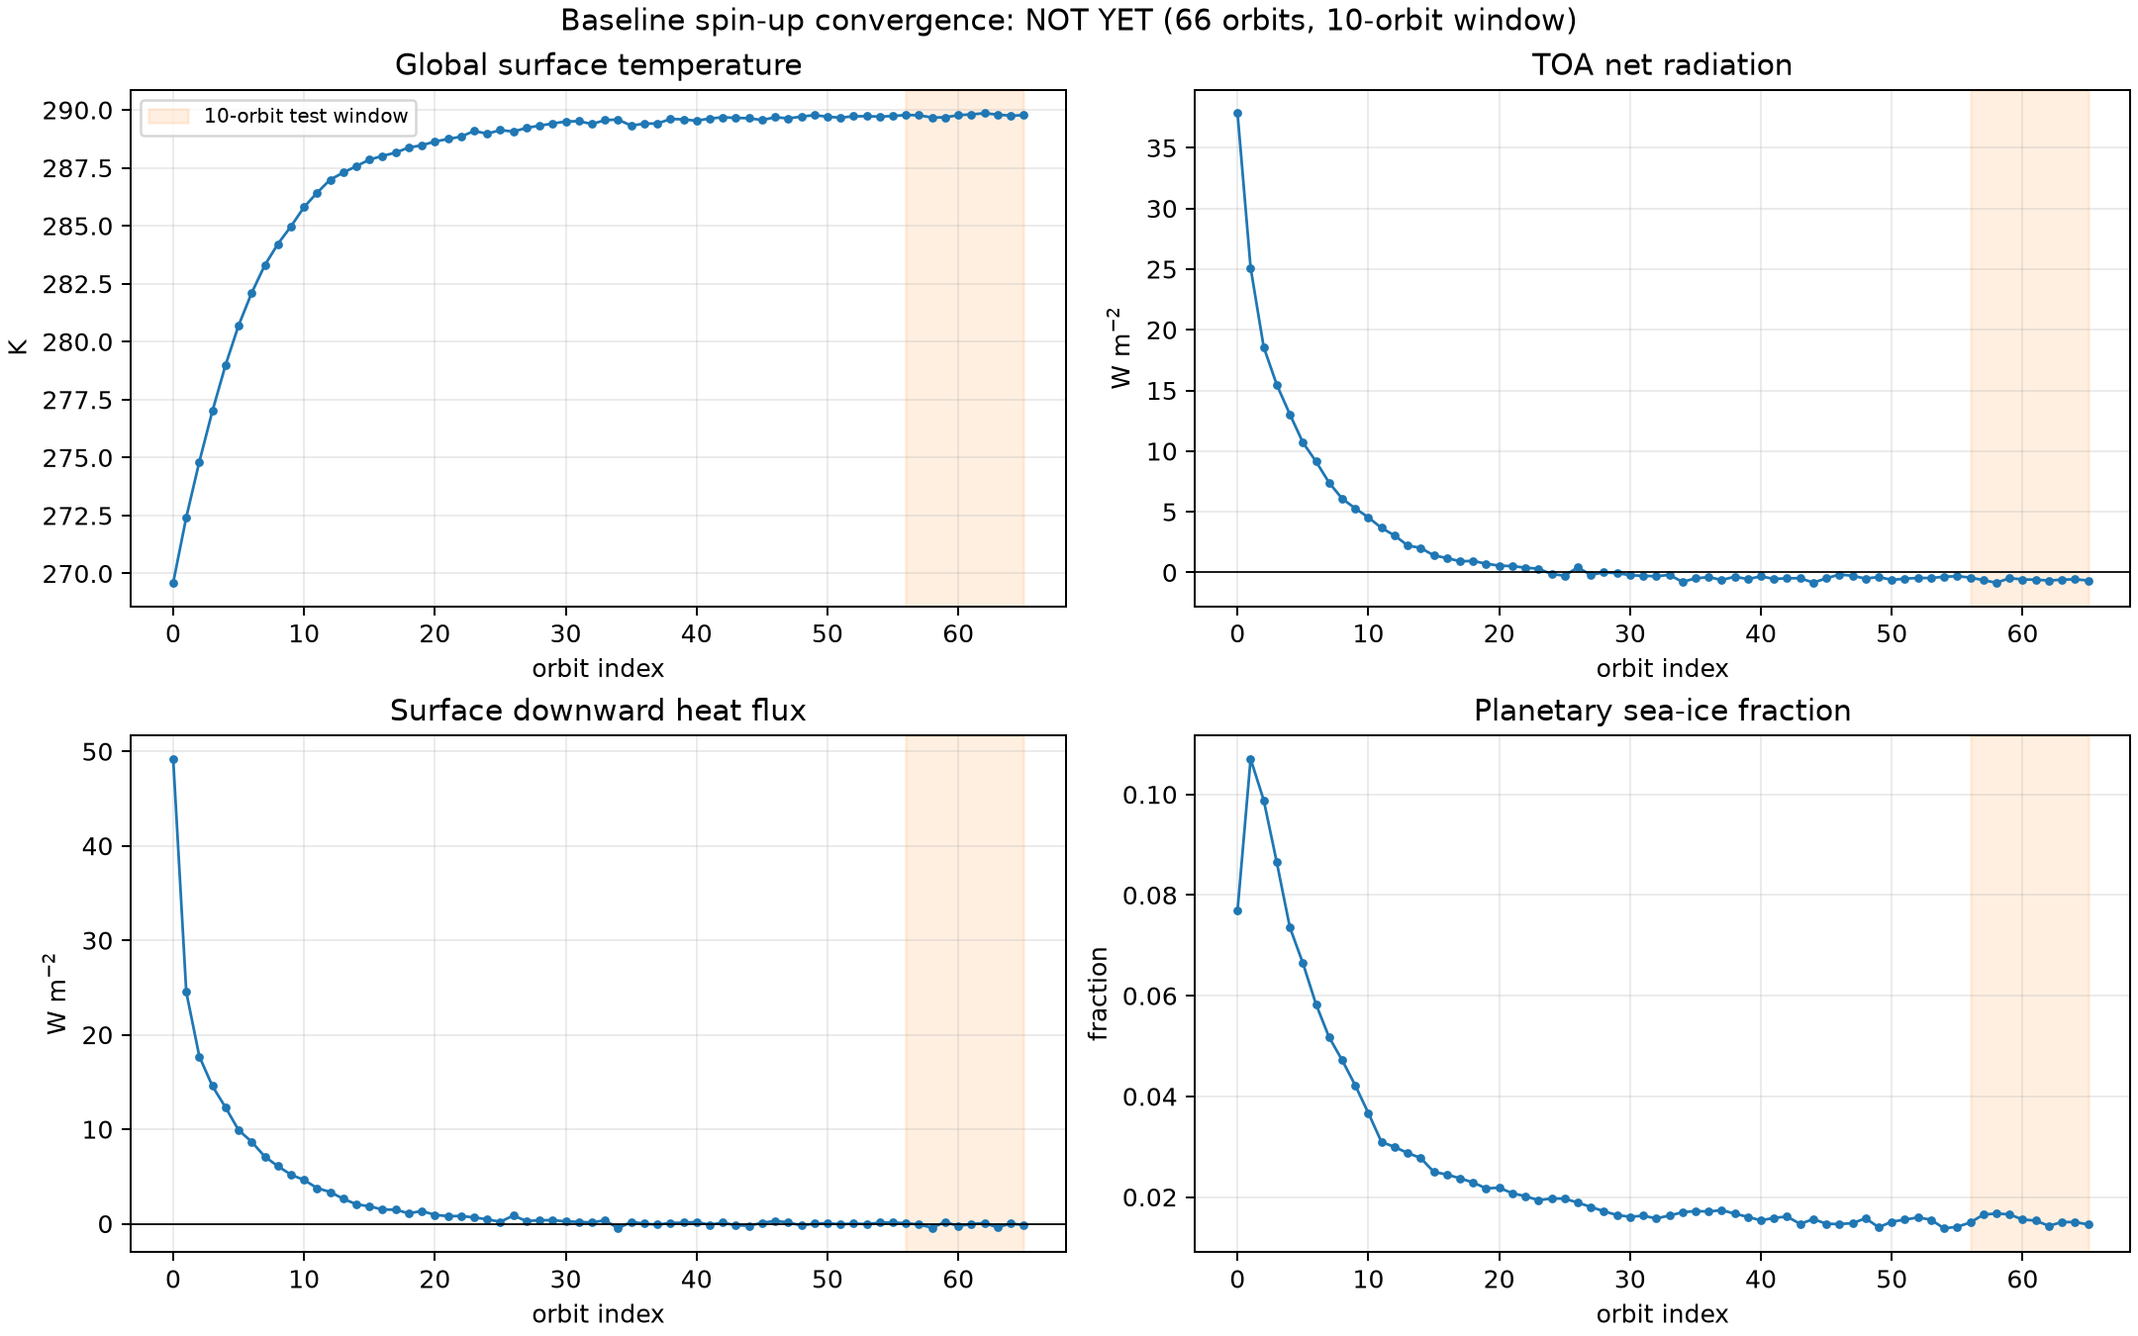
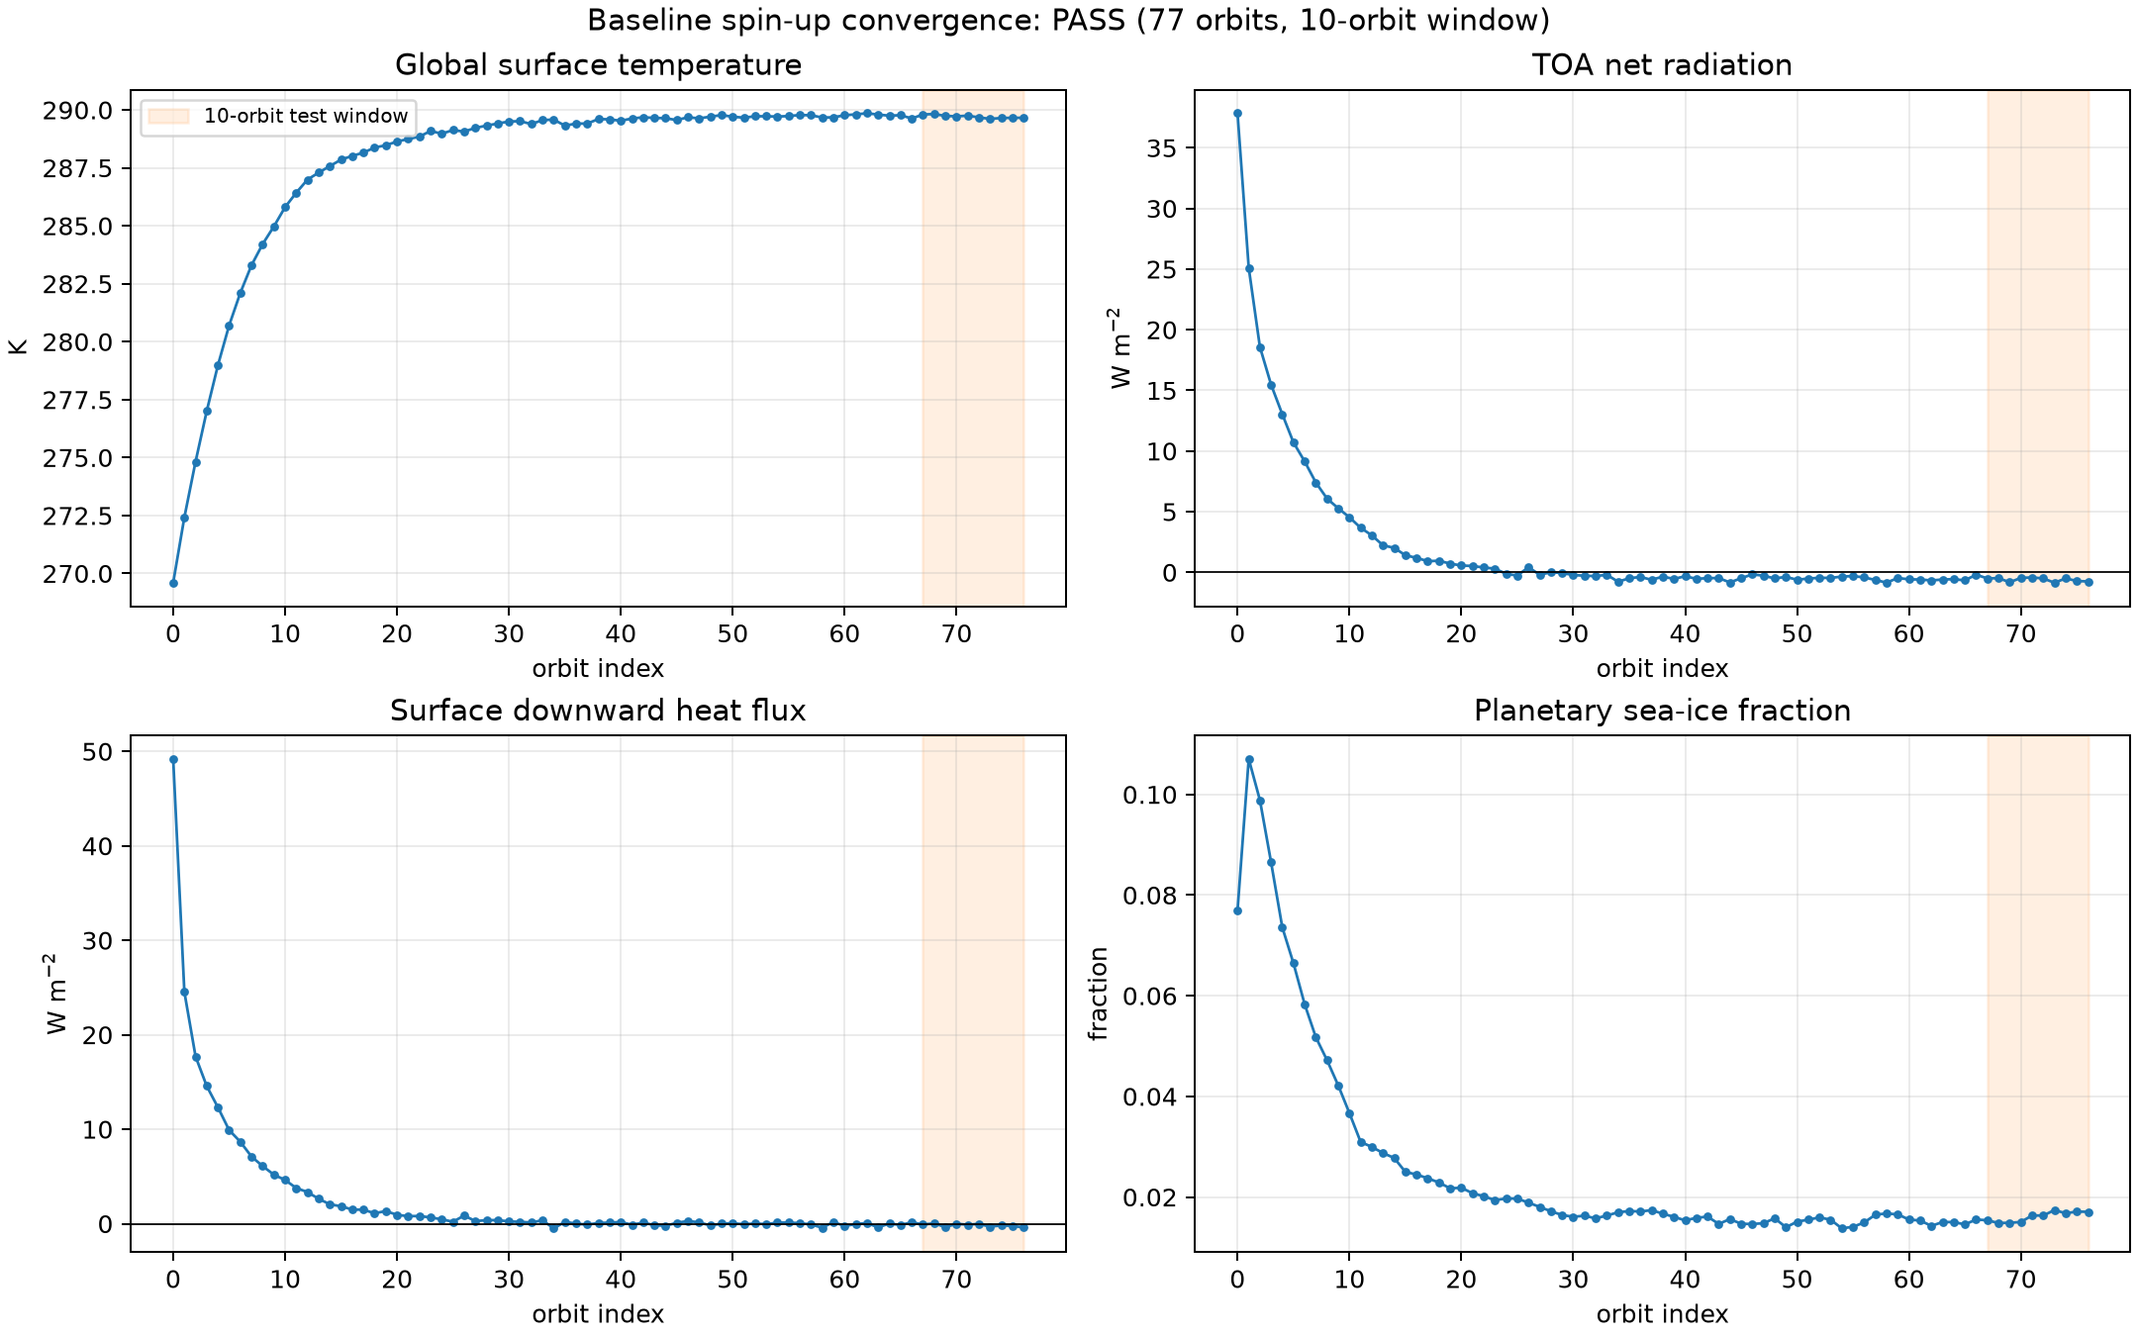
Apply the storage criterion: the baseline is equilibrated, and one run still is not
Re-assessed all four runs on the threshold committed in 7065292 without it having
been run against anything. The baseline stores -0.0547 W/m2 against a tolerance
of 0.12 and passes; run_bfa3f5269660 and run_524fbed77a9a pass; run_b014469b8091
fails, on extrapolated_offset_lt_0.15_k rather than on energy, so the criterion
is not passing everything put in front of it.

The check on the change is the ordering. The old criterion passed 524fbed at TOA
-0.483 while its heat content ROSE at +0.084 W/m2, and failed the baseline at
-0.600 while it stored -0.055: it was passing the run further from equilibrium.
On storage they rank the right way round, and 524fbed is now the one closest to
its threshold.

Manifests, INDEX.json and world_state.json regenerated with it. The section of
baseline-equilibration.md that said the label would not move is rewritten rather
than annotated, since the decision it was deferring has now been taken.

diff --git a/TASKS.md b/TASKS.md
@@ -48,7 +48,6 @@ Status: `open` | `doing` | `blocked` | `done` | `wontfix` (with a reason).
 | DUST-7 | There is NO wet deposition in ExoPlaSim's aerosol. `aerocore` takes no precipitation argument of any kind -- gravitational settling is the only removal, plus a bottom-level sink that is deliberate but not physical -- 99% per timestep, an implied deposition velocity of 52.7 cm/s against a real 0.1-2, and it does not scale with dt. See `aeolian/notes/in-model-dust.md` | `notes/dust.md` | open, part of DUST-3 and designed in `aeolian/notes/in-model-dust.md`. Mechanically the easiest of the physics additions: `dprl` and `dprc` exist, they are simply not handed over. `aeolian/README.md` says of our own chain that without the wet term the fine mode's lifetime is out by an order of magnitude, so porting emission in-model without adding scavenging would lose a first-order sink. Needs a loss term proportional to `dprl + dprc`, which is the same Sportisse (2007) route the offline chain already uses |
 | DUST-8 | One aerosol, one radius, one density. `plasimmod.f90:99` fixes `parameter(NAERO = 1)`; `apart = 50e-9` m and `rhop = 1000` kg/m3 are photochemical haze against mineral dust at 0.1-20 um and 2650. The `do jc=1,NAERO` loops exist, but `apart`/`rhop` are scalars shared by every bin and `mmr2n` takes them as scalars | `notes/dust.md` | open, part of DUST-3 and designed in `aeolian/notes/in-model-dust.md`, which recommends the single effective radius first (0.98 um, already in the aerofile) with the offline chain kept for the size-resolved deposition loess and phosphorus need. Either promote size and density to per-bin arrays with per-bin optics, or pick one effective radius reproducing the mass extinction efficiency in `analysis/dust_optics.json` and declare what the single mode costs deposition |
 | HYD-3 | Measure the overshoot: re-evaluate an already-carved set against the climate that carving produced, and report how many would no longer have carved | `WORKFLOW.md` section 4 | blocked -- it applies to a verdict taken on carved terrain, and a pre-carve base restarts the count at iteration 1 |
-| CLIM-7 | Decide whether the convergence criterion should test the REPORTED top-of-atmosphere net or the storage the model state actually shows. The window question is answered: `assess_convergence.py` takes the trailing `--window` orbits and has no other window to take, and the 0.0014 was orbits 51-60 at run length 61, stale before the commit that quoted it finished re-measuring it. What it exposed is worse -- the criterion reads a diagnostic offset by -0.573 W/m2, so every recent miss on this baseline is smaller than the offset and has the offset's sign | `exoplasim/notes/baseline-equilibration.md` | open. The threshold and the quantity have to be fixed BEFORE the answer is looked at and the answer has now been looked at, so this is a deliberate decision rather than a retrofit; `WORKFLOW.md` section 7. Until it is taken the baseline stays `quasi_equilibrated`, missing `abs_mean_toa_lt_0.5_w_m2` by 0.1010 on its recorded window and 0.0995 on its current one. SETTLED for A2: equilibration is not what holds the cycle run back, and more orbits cannot move a number the planet does not have |
 | CONS-3 | A run stages its stellar spectrum BY NAME and records only the name. So editing `star.spectral_type` and regenerating `k25v.dat` in place changes what the radiation sees while the resume guard's allowlist calls `spectral_type` inert, and `continue_exoplasim.py` resumes across it without complaint | `lib/provenance.py`, `scripts/check_consistency.py` | open, small, and found while closing CONS-1. The biosphere half is already safe -- `vesper_provenance.json` records `spectrum_sha256` -- so the fix is to make a run manifest do the same and compare it, not to invent a mechanism. Note the shape: the allowlist entry is CORRECT about the config key and wrong about the artifact, because the value reaches the model through a file the key only names. WORKFLOW.md loop C is where this bites, since it moves luminosity and effective temperature and says to re-run `build_stellar_spectrum.py` past 2 to 3% |
 | CLIM-5 | Patch PlaSim's low-I/O output path, which writes a corrupt first record per model call. Runs now set `NLOWIO = 0` to avoid it at 25x the output volume, so this buys back disk rather than correctness | `exoplasim/notes/first-output-bin.md` | APPLIED and built 2026-08-17, and NOT yet done. The patch is resident and compiled into all five binaries, so the corrupt first record should be gone -- but nothing has demonstrated that, because every run since has used `NLOWIO = 0`, which is the workaround the patch exists to retire. What closes this is one short segment at `NLOWIO = 1` whose first output record agrees with the `NLOWIO = 0` reference to the precision the rest of the record does. Until then the fix is asserted rather than shown, which is the standard this project holds elsewhere. It also changes the RESTART LAYOUT, so a run started before the rebuild cannot be resumed by these binaries |
 | CLIM-6 | Give `denergy` an accumulator in `outmod.f90` beside `ashfl`, `alhfl` and the rest, so the 28 energy terms are time means like every other field on the stream rather than instantaneous values at the output step | `exoplasim/notes/water-and-energy-closure.md` | APPLIED and built 2026-08-17, unverified for the same reason as CLIM-5: `denergy` now has an accumulator beside `ashfl` and the rest, but no run has written one. Confirm on the first segment that the 28 terms are time means rather than instantaneous values by checking one term against its own accumulated flux. Deliberately adds NO restart records, because `get_restart_array` stops on a missing name and persisting the accumulator would make these binaries refuse every restart the old ones wrote |

diff --git a/exoplasim/notes/baseline-equilibration.md b/exoplasim/notes/baseline-equilibration.md
@@ -95,42 +95,53 @@ So the criterion is failing by 0.10 on a number that is 0.57 too negative. Every
 recent miss is smaller than the offset, and the sign of the offset is the sign of
 every miss.
 
-## What this does and does not license
+## What was decided, and what it changed
 
-**It does not turn the miss into a pass, and the label does not move.**
-`sufficiently_equilibrated_for_worldbuilding` is all-or-nothing, and it stays
-`quasi_equilibrated` with `abs_mean_toa_lt_0.5_w_m2` named. The recorded verdict
-is -0.6010 on orbits 56 to 65, a miss of 0.1010, taken when the run was 66
-orbits long; re-assessed at the 77 orbits now on disk it would read -0.5995 on
-orbits 67 to 76, a miss of 0.0995. Both fail, and neither is close. This project
-calls a run quasi-equilibrated for missing by 0.004 W/m2; a run missing by 0.1 is
-not entitled to better treatment because a separate measurement suggests the
-threshold is being applied to the wrong quantity.
+**The criterion now tests state storage. Decided 2026-08-17, CLIM-7.**
 
-The assessment was deliberately **not** re-run here. It rewrites the run
-manifest and would leave `INDEX.json` and `world_state.json` needing
-regeneration, and the verdict it would produce is the same verdict on the same
-criterion. The eleven-orbit staleness is worth recording rather than quietly
-refreshing, because it is the same shape as the defect this note opened on.
+The quantity moved because the old one was measured against the thing it
+proxies, not because a run failed on it. `|mean TOA| < 0.5 W/m2` was thresholding
+a diagnostic carrying a structural offset larger than the threshold itself, and
+`0.5` was picked early, never revisited, and applied to two different quantities.
 
-**It does not license amending the criterion here.** The threshold and the
-quantity a criterion tests are fixed before results are seen
-(`WORKFLOW.md` section 7). Choosing a new quantity -- state storage rather than
-reported TOA -- immediately after measuring that the new quantity passes and the
-old one fails is the exact move that convention forbids, whatever the physics
-says. If the criterion should read storage, that is a decision to take
-deliberately, with its threshold argued from the estimator's noise rather than
-from this run's answer, and it belongs to CLIM-7's remaining work rather than to
-this note.
+**The threshold was derived and committed before it was applied to anything**,
+which is the only way this could be taken without being the retrofit
+`WORKFLOW.md` section 7 forbids. Two bounds, agreeing to 6%:
 
-**What it does settle, for A2.** The baseline's failure to converge is an
-instrument fault and not a spin-up fault. There is no missing model time here:
-running further will not move -0.5995 to -0.4999, because the number it would
-have to move is not the number the planet has. Whatever else "final" requires --
-and A2 is explicit that it is stricter than "converged", and that anything
-outstanding which moves the mean has to land first -- **equilibration is not what
-is holding the cycle run back.** That was worth knowing before spending a
-hundred more orbits on it.
+| bound | value |
+| --- | ---: |
+| what matters: 0.15 K offset tolerance / (0.128 K per orbit per W/m2 * 9.9 orbits) | 0.118 W/m2 |
+| what is measurable: 10-orbit against 20-orbit windows of the same run, three runs | 0.111, 0.115, 0.116 W/m2 |
+
+Below about 0.11 the estimator is measuring its own sampling noise; above 0.118
+the criterion admits more drift than the temperature tolerance already forbids.
+**0.12 W/m2** is where they meet, and it is four times tighter than what it
+replaces. The physical half is derived FROM the temperature tolerance rather than
+invented beside it, so the two criteria now bound one thing in two units.
+
+**The outcome.** Re-assessed on the 77 orbits on disk, the baseline stores
+-0.0547 W/m2 and passes. Three of the four runs pass;
+`run_b014469b8091` does not, and it fails on the temperature-offset criterion
+rather than on energy.
+
+The ordering anomaly is gone, and that is the check on the change rather than a
+by-product of it. Under the old criterion `run_524fbed77a9a` passed at
+TOA -0.483 while its heat content ROSE at +0.084 W/m2, and the baseline failed at
+-0.600 while storing -0.055. The criterion was passing the run further from
+equilibrium. On storage the two are ranked the right way round: the baseline at
+-0.055 sits nearer zero than 524fbed at +0.084, and 524fbed is now the one closer
+to its threshold.
+
+**Reported TOA is still recorded, and so is its difference from storage**, as
+`reported_toa_minus_storage_w_m2` in every assessment. That gap is CLIM-1 and is
+open: the candidates are `rsut`, `rlut`, or an atmospheric heating neither flux
+diagnostic books. A criterion that stopped reading the number would also stop
+anyone noticing when it changed.
+
+**What it settles for A2.** The baseline's failure was an instrument fault, not a
+spin-up fault, and no amount of further model time would have moved it. What
+"final" still requires is the physics that moves the mean -- PHYS-1, the spectrum
+declaration, dust -- and none of that is equilibration.
 
 ## What was checked and is not the answer
 

diff --git a/archive/tasks.md b/archive/tasks.md
@@ -108,3 +108,4 @@ that it was done.
 | VOLC-3 | Place silcrete and diatomite against per-basin silica supply | `pedology/notes/derived-surface-classes.md` | done 2026-08-17, and it corrected the figure that motivated it. The "21.6% of silica goes to closed basins" was the share RELEASED ON basin-floor cells; delivery is a drainage question and routes to 68.4%. That is the same trap as the endorheic-share-of-land entry in failure-modes, one quantity with two meanings. Mesh and grid routes agree on total land silica to 2.3% against a 5% criterion, and the strandline band agrees with hydrography's independent hypsometry to 2.0% over 871 basins. Groundwater silcrete is left unplaced: no water table is modelled |
 | MIN-2 | Place the weathering, drainage and brine deposit types downstream | `notes/economic-minerals.md` | done 2026-08-17. `minerals/scripts/build_downstream_prospectivity.py`, nine types, kept as a SEPARATE artifact from the tectonic half because it carries a climate in its identity. Gypcrete lands at 0.70% of land against 7.30% meeting the climate window alone, 19.1x enriched in carbonate-poor catchments, which is the design's prediction measured rather than asserted. THE LITERATURE PASS CHANGED AN ANSWER: supergene copper shipped with a 100 mm/yr lower bound described as conventional and in fact invented, and Reich et al. (2009) puts meteoric enrichment above 10 mm/yr, so the bound was excluding the Atacama by a factor of ten. Bauxite (Price 1997) and Ni laterite (Butt and Cluzel 2013) sourced; bauxite's monthly criterion needed the calendar conversion, where the COUNT transfers unchanged and the DEPTH halves. The placer rule's two missing thresholds are recorded as sourced-negative: quoted from papers stating the quantity was never established. Tin and gem placers are not emitted, because the rock table cannot separate their hosts from ordinary granite |
 | CONS-4 | `RESIDENT_PATCHES` listed one patch while more than one was resident, so a `.venv` reinstall could discard a patch and `--verify` would not notice | `exoplasim/scripts/rebuild_binaries.py`, CLAUDE.md rule 4 | done 2026-08-17, and the list was understated by TWO rather than one: `energy-diagnostics` was known, and `makestellarspec` (the NumPy 2.0 `trapz` fix) was not. THE REASON BOTH HID is worth more than the fix: the check applied every patch from `plasim/src` at `-p1`, and those two are written against the package root, so they could never have reversed from there and reported as unapplied -- except that nothing reported it, because they were not in the list to be checked. Entries now carry their own root. The residency TEST was also wrong and only showed it once the list grew: reverse-applying each patch independently against the live source stops working the moment a second patch touches adjacent lines, because it changes the context the first one's reverse needs. `ozone-band-weights` duly reported as missing while being perfectly present, and acting on that would have meant re-applying a patch already in place. The whole stack is now unwound newest-first in a scratch mirror, which is exact and still fails for the right reason. Manifest source keys became package-relative with it, since two resident patches touch files outside `plasim/src` and a basename would collide files of the same name under different roots; `check_consistency.py` resolves them against the package |
+| CLIM-7 | Decide whether the convergence criterion should test the REPORTED top-of-atmosphere net or the storage the model state actually shows | `exoplasim/notes/baseline-equilibration.md` | done 2026-08-17 as a DECISION, taken by the user after the evidence was laid out rather than by whoever found it, because choosing a quantity immediately after measuring that the new quantity passes is what `WORKFLOW.md` section 7 forbids. The criterion now tests state storage and the threshold is DERIVED: 0.15 K / (0.128 K per orbit per W/m2 * 9.9 orbits) = 0.118 from the temperature tolerance already committed to, against an estimator that resolves 0.111 to 0.116 W/m2 between 10-orbit and 20-orbit windows of the same run. The two agree to 6% and 0.12 is where they meet, four times tighter than the 0.5 it replaces -- which was itself picked early, never revisited, and applied to two different quantities. The threshold was committed BEFORE re-assessing, in its own commit, so the ordering is in the history rather than asserted. Outcome: the baseline stores -0.0547 and passes, three of four runs pass, and `run_b014469b8091` still fails, on the temperature-offset criterion rather than on energy. THE CHECK ON THE CHANGE: the old criterion passed the run FURTHER from equilibrium, `run_524fbed77a9a` at TOA -0.483 while its heat content rose at +0.084, against the baseline failing at -0.600 while storing -0.055. On storage the two rank the right way round. Reported TOA and its difference from storage stay recorded in every assessment, because that gap is CLIM-1 and a criterion that stopped reading the number would stop anyone noticing it move |
